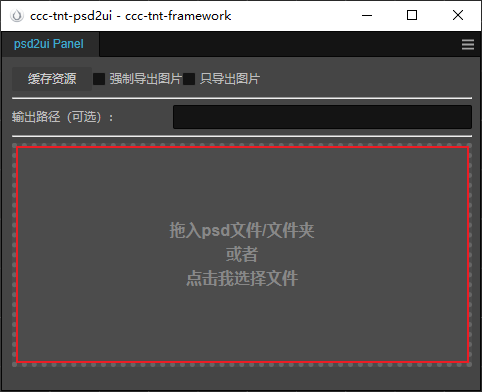
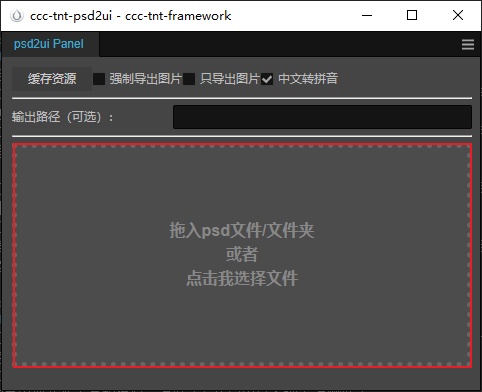
README.md

diff --git a/README.md b/README.md
@@ -39,8 +39,9 @@ Mac 下首次使用需要先执行根目录下的 `install_depends.sh` 安装 `c
 1. 缓存资源按钮： 手动缓存资源MD5，当你不确定资源是否完全缓存的时候可以执行
 2. 强制导出图片选项： 勾选后，即使已经进行缓存的资源同样会导出图片
 3. 只导出图片选项： 可以把此工具只当做是切图工具，同时会将文本图层的字号及颜色输出到文件
-4. 输出路径输入框： 可以直接导出到指定路径，如果没有填写，默认为 psd 同级目录
-5. 红框区域：拖入 psd 文件夹或 psd 文件，也可以点击红框区域使用选择文件功能
+4. 中文转拼音：最终导出无论是图片名还是节点名如果包含中文，都会转成拼音。
+5. 输出路径输入框： 可以直接导出到指定路径，如果没有填写，默认为 psd 同级目录
+6. 红框区域：拖入 psd 文件夹或 psd 文件，也可以点击红框区域使用选择文件功能
 
 ### 属性
 
